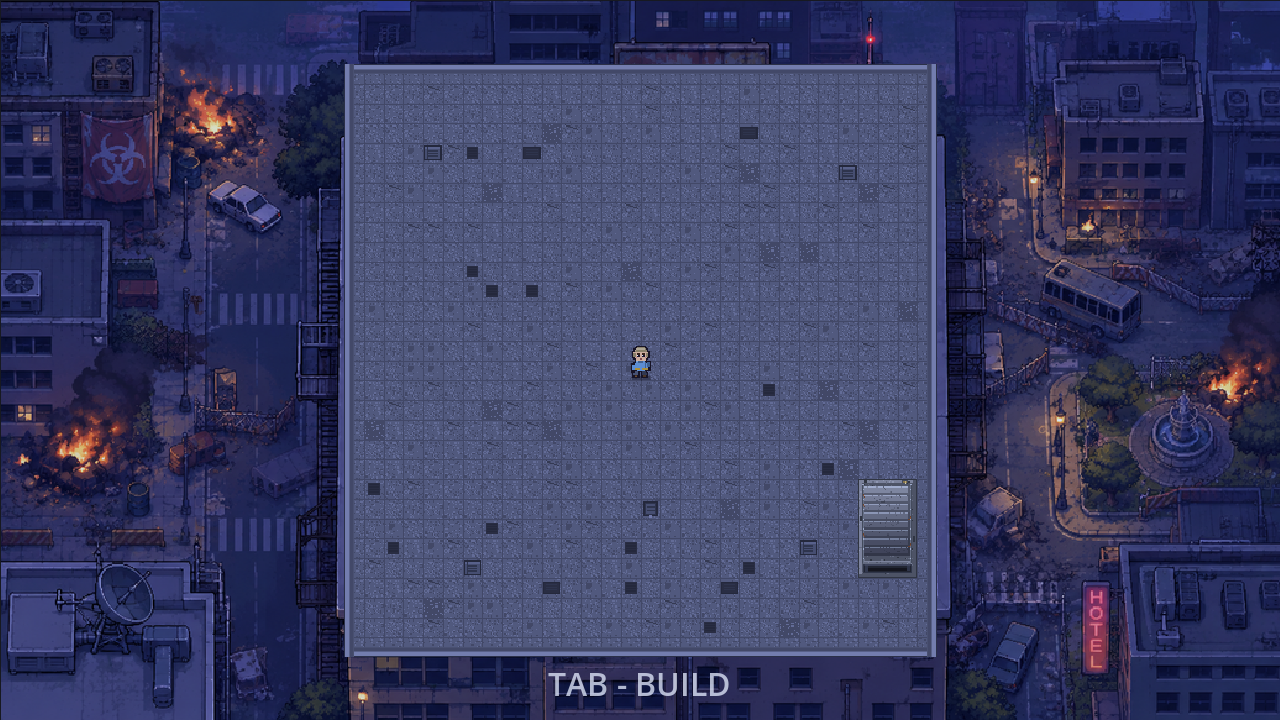
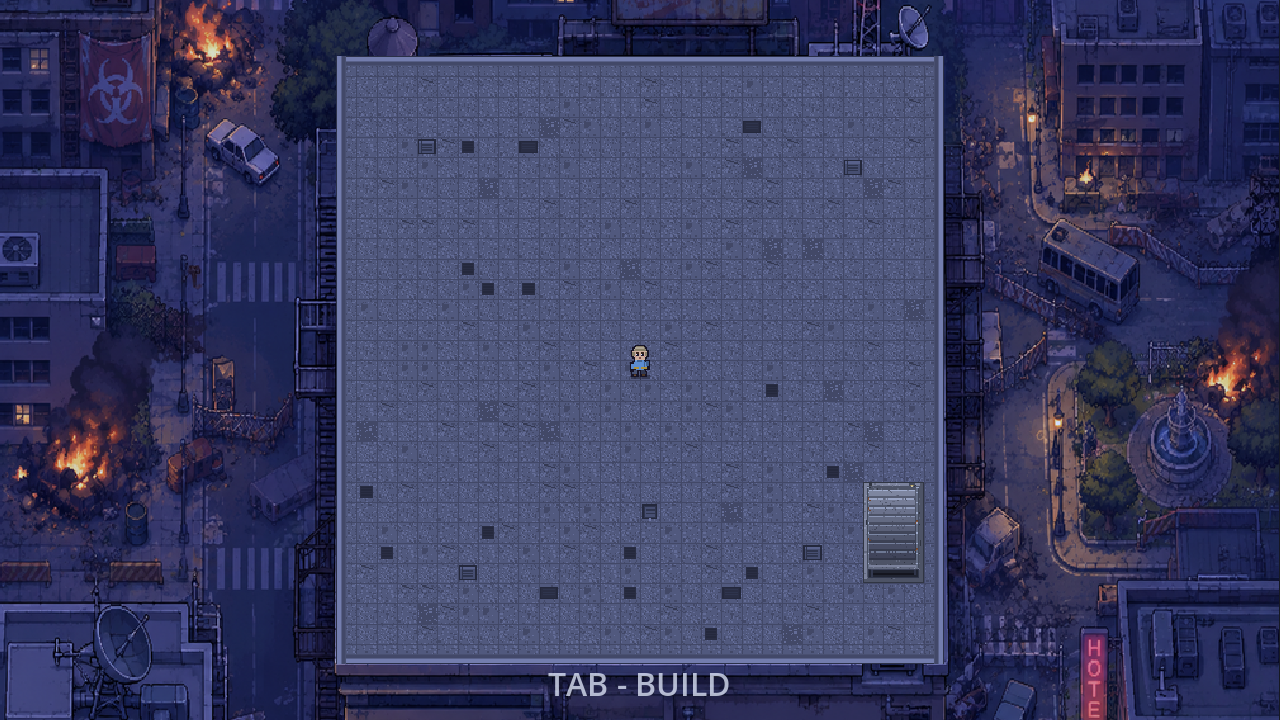
art: 背景按画里楼顶外沿非等比缩放，游戏平台与图中楼顶完全重合（1010x720）

diff --git a/tools/make_city_template.py b/tools/make_city_template.py
@@ -1,8 +1,8 @@
-"""生成基地背景图的制作模板：1036x582，标出「平台遮住的部分」和「会被看到的部分」。
+"""生成基地背景图的制作模板：1010x720，标出「平台遮住的部分」和「会被看到的部分」。
 
-背景图在场景里放在世界 (-278, -51)，所以：
-  图片像素 (278, 51) = 世界 (0, 0) = 平台左上角
-  平台 480x480 → 图片 (278,51) ~ (758,531)
+背景图在场景里放在世界 (-266, -130)，并且已经按「画里的楼顶 = 游戏平台」拉伸过：
+  图片像素 (266, 130) = 世界 (0, 0) = 平台左上角
+  平台 480x480 → 图片 (266,130) ~ (746,610)
 
 运行: python tools/make_city_template.py
 """
@@ -11,19 +11,15 @@ from pathlib import Path
 from PIL import Image, ImageDraw
 
 ROOT = Path(r"C:\game\test")
-W, H = 1036, 582
-PLATFORM = (278, 51, 278 + 480, 51 + 480)
+W, H = 1010, 720
+PLATFORM = (266, 130, 266 + 480, 130 + 480)
 
 img = Image.new("RGBA", (W, H), (0, 0, 0, 0))
 d = ImageDraw.Draw(img, "RGBA")
 
-# 会被看到的部分：深蓝半透明
 d.rectangle((0, 0, W - 1, H - 1), fill=(30, 40, 60, 120))
-
-# 平台区域（会被屋顶挡住，可以随便画）
 d.rectangle(PLATFORM, fill=(200, 30, 120, 110))
 
-# 16px 网格（对齐瓦片用）
 for x in range(0, W, 16):
     c = (255, 255, 255, 26) if x % 80 else (255, 255, 255, 64)
     d.line((x, 0, x, H - 1), fill=c)
@@ -31,7 +27,6 @@ for y in range(0, H, 16):
     c = (255, 255, 255, 26) if y % 80 else (255, 255, 255, 64)
     d.line((0, y, W - 1, y), fill=c)
 
-# 平台边界
 d.rectangle(PLATFORM, outline=(255, 80, 160, 255), width=3)
 
 img.save(ROOT / "docs" / "city_background_template.png")

diff --git a/README.md b/README.md
@@ -625,11 +625,13 @@ after 3.5s-> 0 只（确认不再刷）
   - **中间**：5×4 物品格子（图标 + 数量，选中黄框），左下角 `已用 / 总格数`
   - **右侧**：物品详情（大图标 + 名字 + 类型 + 描述 + `QTY n`）
   物品表在 `inventory_ui.gd` 的 `ITEMS` 里，数量读 `GameState`。
-- **自己画城市背景**：PNG **1036×582** 覆盖 ssets/base/city_background.png，
-  Sprite 放在世界 (-278,-51)，图片像素 (278,51) 正好是世界原点（平台左上角），
-  平台 480×480 会把图片 (278,51)~(758,531) 盖住，其余部分才会被看到。
+- **自己画城市背景**：PNG **1010×720** 覆盖 ssets/base/city_background.png，
+  Sprite 放在世界 (-266,-130)，图片像素 (266,130) 正好是世界原点（平台左上角），
+  平台 480×480 会把图片 (266,130)~(746,610) 盖住，其余部分才会被看到。
+  当前这张图是把手绘图按 x*0.6038 / y*0.7656 拉伸过的，**让画里的楼顶外沿和游戏平台完全重合**
+  （原图楼顶 795×627，不是正方形，要重合只能非等比缩放）。
   docs/city_background_template.png 是带 16px 网格和平台范围标记的模板（	ools/make_city_template.py 生成）。
-  **基地默认是全景视角**（ase_scene._set_overview(true)）：相机 zoom = min(320/1036, 180/582) ≈ 0.309，
+  **基地默认是全景视角**（ase_scene._set_overview(true)）：相机 zoom = max(320/1010, 180/720) ≈ 0.317，
   整张背景刚好铺满屏幕；按 **V** 在全景 / 正常跟随视角之间切换，
   切换用 Tween 缓动 0.45s（TRANS_CUBIC + EASE_IN_OUT），镜头是平滑拉近/拉远而不是瞬切。
   两种视角的镜头边界都设成**整张背景图**（-278,-51 ~ 758,531），所以角色走到平台四角也不会跑出画面。
